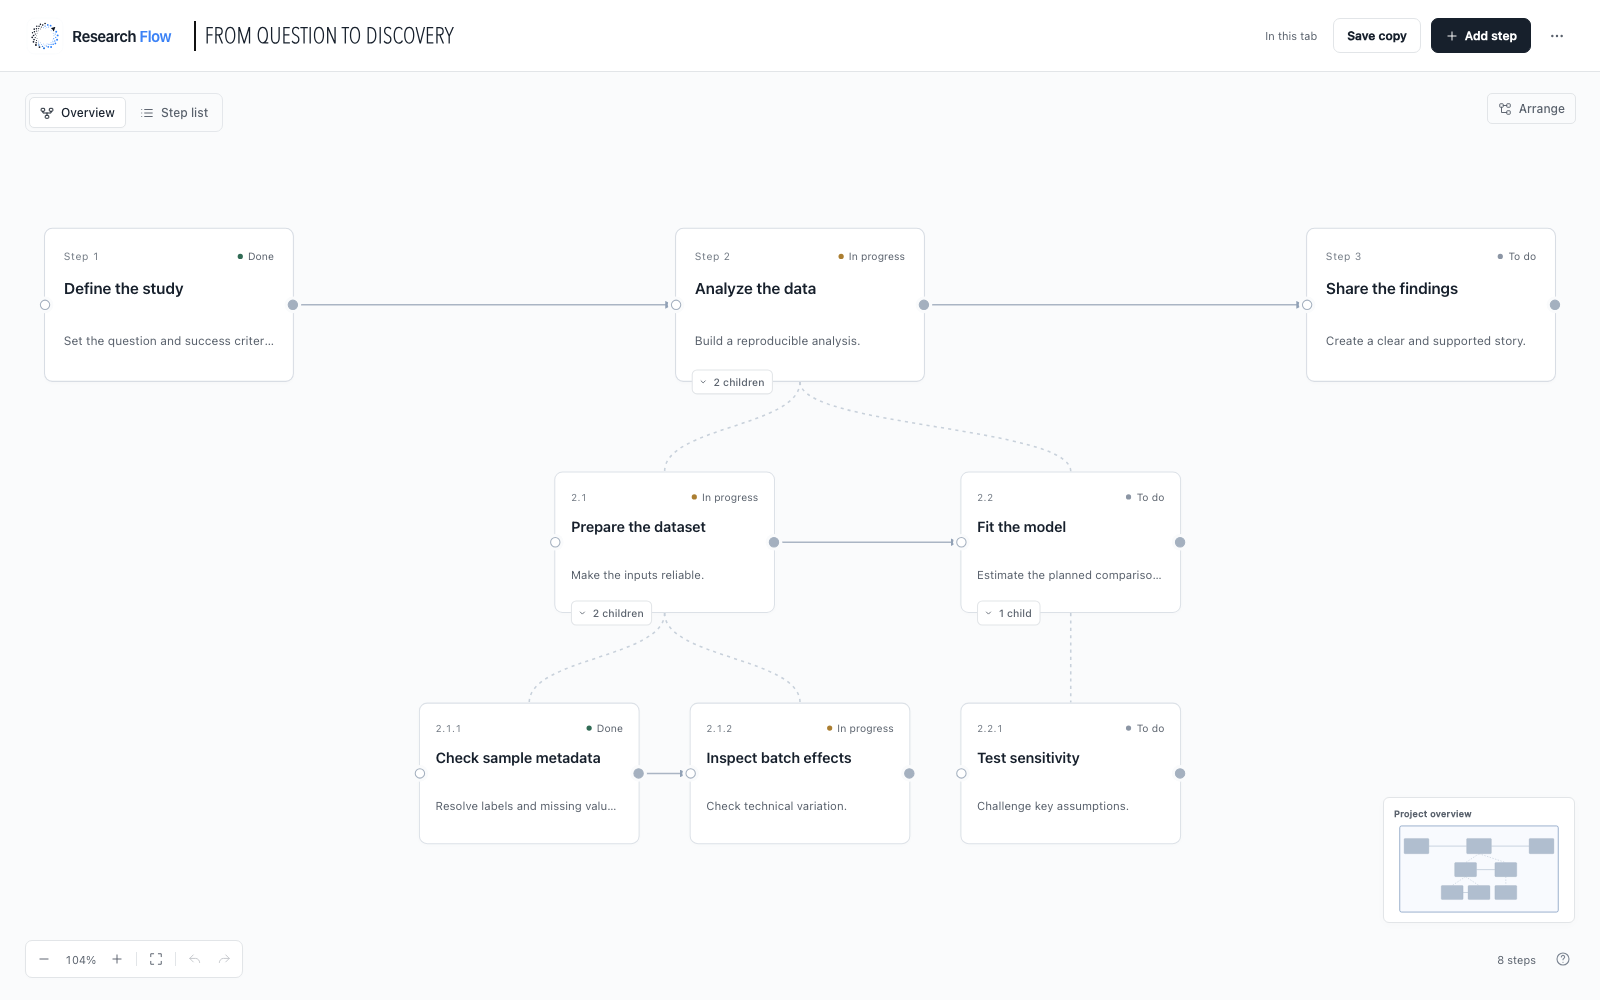
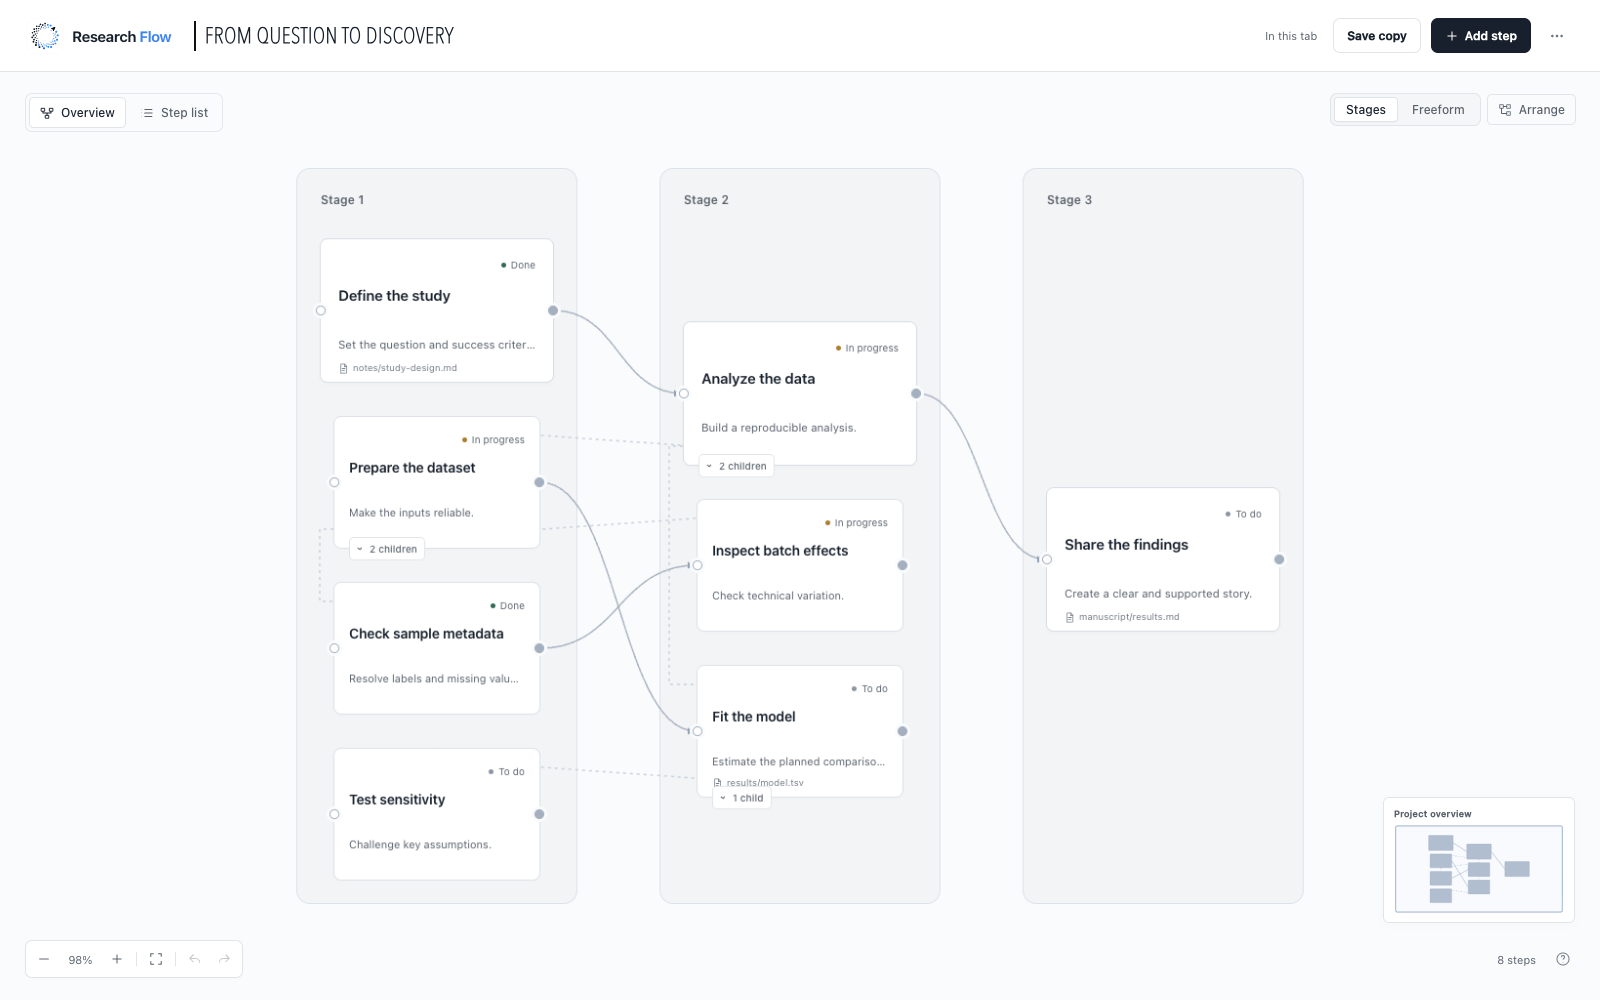
Refresh the README screenshot for the stage-based interface

diff --git a/README.md b/README.md
@@ -6,7 +6,7 @@ Research Flow is a visual planner for a single research project. Connect steps,
 organize them into branches, and keep your workflow in a readable YAML file on your
 own machine or Linux server.
 
-![Research Flow showing connected research steps and nested branches](docs/screenshot.png)
+![Research Flow showing dependency stages, nested research steps, and the Stages / Freeform switch](docs/screenshot.png)
 
 ## Features
 
